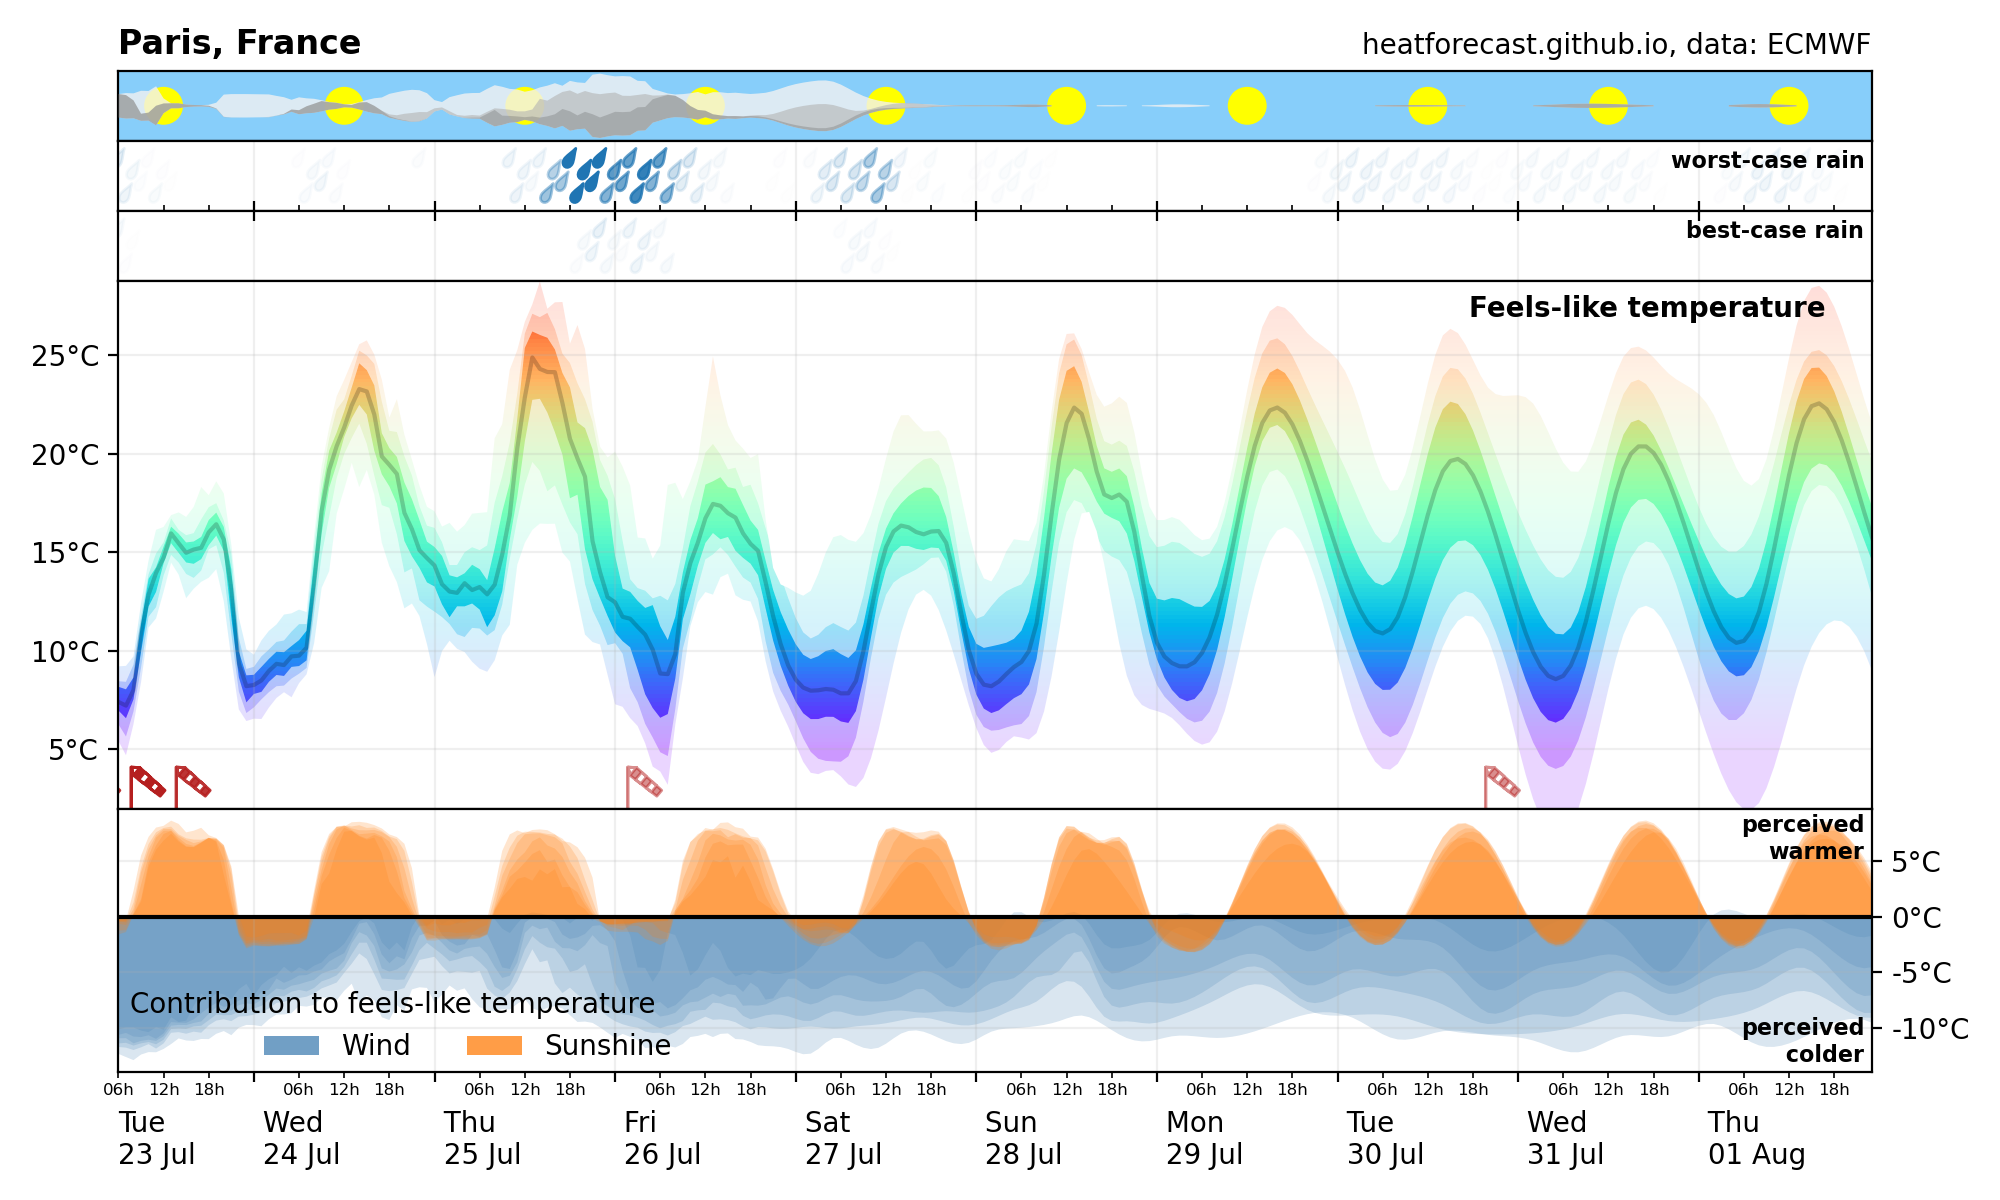
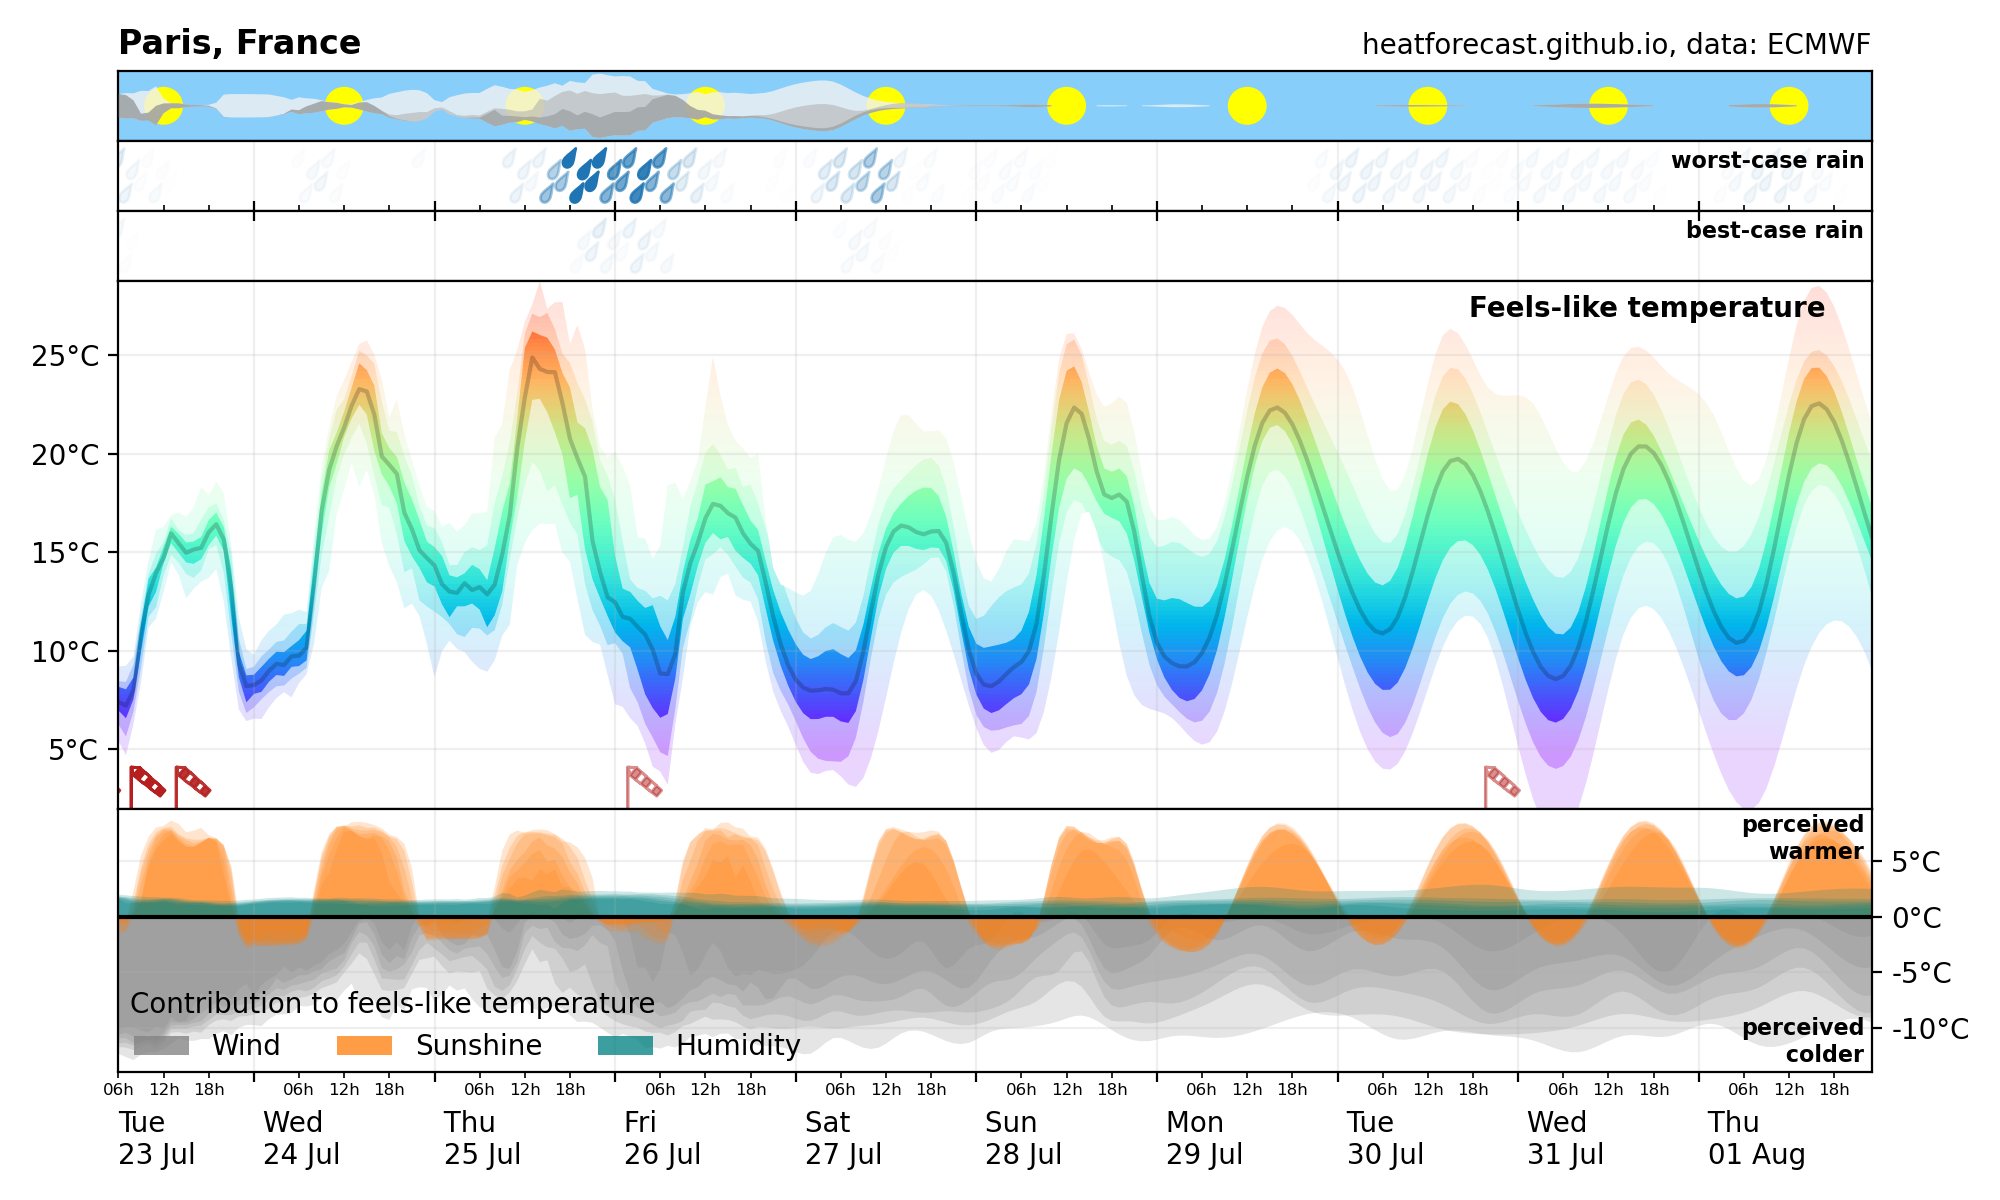
with humidity

Changed region(s): [[0.062, 0.74, 0.961, 0.8942]]

diff --git a/about.md b/about.md
@@ -29,7 +29,8 @@ For more information see
 (If you cannot access this publication but you would like to sent me an email).
 For the Paris Olympics in 2024 we are resuming this project, hosted on
 [heatforecast.github.io](https://heatforecast.github.io)
-More background information in the following.
+More background information in the following as well as in the
+[meteogram explanation](https://heatforecast.github.io/explanation).
 
 ## Feels-like temperatures
 
@@ -67,6 +68,25 @@ as the equivalent air temperature that causes the same heat stress on the human 
 
 ## Why Olympics?
 
+Heatwaves, and in many cases also shorter exposure to heat, can cause dehydration,
+other heat illnesses, heat strokes or even death. Many heatwaves cause excess mortality
+but it is difficult to quantify less severe impacts of heatwaves on public health.
+During the Olympics, and generally outdoor competitions with professional athletes,
+a large group of people is under regular medical observation with physicians also
+tracking less severe symptoms. Even though professional athletes are by definition
+not representative members of the public in terms of physiology and health,
+this does allow us to conduct studies on the impacts of heat on humans. See also
+[Hollander et al., 2021](https://doi.org/10.1111/sms.14029) and
+[Klöwer et al., 2023](http://dx.doi.org/10.1136/bjsports-2022-106413).
 
-## Credits
+## Why only Olympics?
 
+We would love to extend [heatforecast.github.io](https://heatforecast.github.io)
+more generally to various places at any time of the year. However, this
+heat forecast is currently an experimental project, showcasing possibilities to
+improve weather forecasts towards physiologically relevant information
+and intuitive visualisation. Given the public attention we decided to run this
+second pilot after Tokyo 2020 but we will likely stop it at some point after
+the Paralympic Games. If you are interested to run this heat forecast more
+operationally or to integrate it into other operational forecasts place
+reach out. With additional resources this might be possible.

diff --git a/explanation.md b/explanation.md
@@ -94,7 +94,12 @@ Weaker winds or the wind direction is not visualised.
 
 ## Contribution to feels-like temperature: Humidity
 
-(To be added)
+Human bodies can regulate their heat budget through sweating. However, the efficiency
+to lose energy by sweating and subsequent evaporation (which cools) of that moisture
+depends on the surrounding air to be able to take up that additional humidity.
+If the air is humid, sweating not as efficient to cool down the human body.
+Consequently, higher humidity levels typically increase the feels-like temperature
+compared to the air temperature by a few ˚C.
 
 ## Contribution to feels-like temperature: Windchill
 
